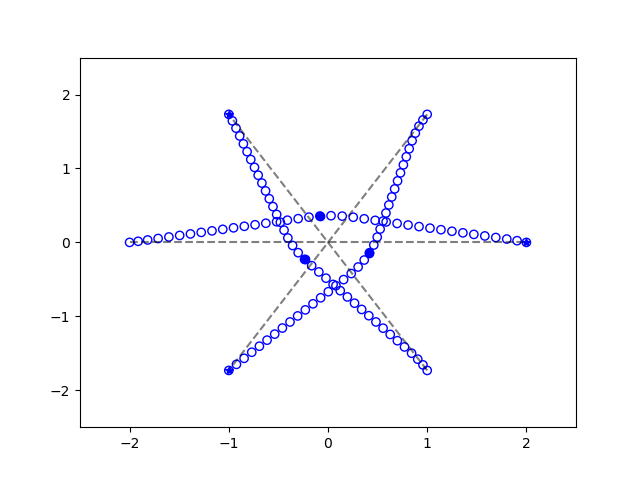
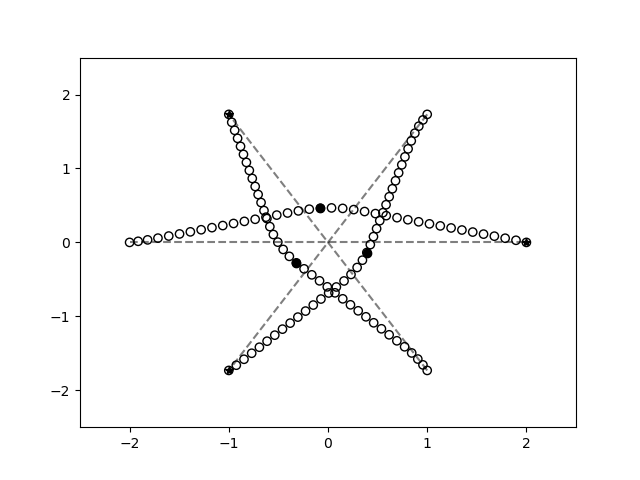
Updated color of graphs

diff --git a/src/main.py b/src/main.py
@@ -13,7 +13,7 @@ if __name__ == '__main__':
     # Inputs to the generation of the vehicles
     vehicle_mass = 5        # mass of the vehicles
     v_max = 0.225           # maximum velocity of the vehicle
-    paper = 8               # figure from the original paper that wants to be verified
+    paper = 9               # figure from the original paper that wants to be verified
 
     # Figure 7 in the paper: 3 vehicles
     if paper == 7:
@@ -52,7 +52,7 @@ if __name__ == '__main__':
                    (veh_coords[2][3] - veh_coords[2][1]) * (facs - 0.04),
                    (veh_coords[3][3] - veh_coords[3][1]) * (facs)]  # initial y-component of velocity
         wp_coords = [[], [], []]    # array containing all waypoint in [x_wp,y_wp] format
-        name = 'four aircraft.png'  # name of the figure to be saved
+        name = 'four_aircraft.png'  # name of the figure to be saved
 
 
     # Figure 9 in the paper: waypoints without obstacle
@@ -153,7 +153,7 @@ if __name__ == '__main__':
         z = 0
         if paper == 7:
             # Plot a bold point at the 18th point as done in the paper
-            plt.scatter(vehicles[i].x[18].x, vehicles[i].y[18].x, facecolor = 'blue', edgecolor = 'blue')
+            plt.scatter(vehicles[i].x[18].x, vehicles[i].y[18].x, facecolor = 'black', edgecolor = 'black')
             # Plot dashed lines connecting initial and final points for all vehicles
             plt.plot([veh_coords[i][0], veh_coords[i][2]], [veh_coords[i][1], veh_coords[i][3]], 'k--', alpha = 0.5)
         elif paper == 8:
@@ -172,10 +172,10 @@ if __name__ == '__main__':
             coords[j, :] = [vehicles[i].x[j].x,vehicles[i].y[j].x]
         if wp:                                # plotting the location of the waypoints
             for jj in range(len(x_wp[i])):
-                plt.plot(x_wp[i][jj], y_wp[i][jj], '*', color='b')
-        plt.scatter(coords[:,0], coords[:,1], facecolor = 'none', edgecolor = 'blue')  # plot the trajectories of the vehicles
-        plt.plot(vehicles[i].x_fin, vehicles[i].y_fin, '*', color='b')    # plot the final points star
-        plt.scatter(vehicles[i].x_fin, vehicles[i].y_fin, facecolor = 'none', edgecolor = 'blue')  # plot the final points circle
+                plt.plot(x_wp[i][jj], y_wp[i][jj], '*', color='k')
+        plt.scatter(coords[:,0], coords[:,1], facecolor = 'none', edgecolor = 'black')  # plot the trajectories of the vehicles
+        plt.plot(vehicles[i].x_fin, vehicles[i].y_fin, '*', color='k')    # plot the final points star
+        plt.scatter(vehicles[i].x_fin, vehicles[i].y_fin, facecolor = 'none', edgecolor = 'black')  # plot the final points circle
 
     plt.xlim([-area_size, area_size])   # limit the plot space
     plt.ylim([-area_size, area_size])   # limit the plot space
